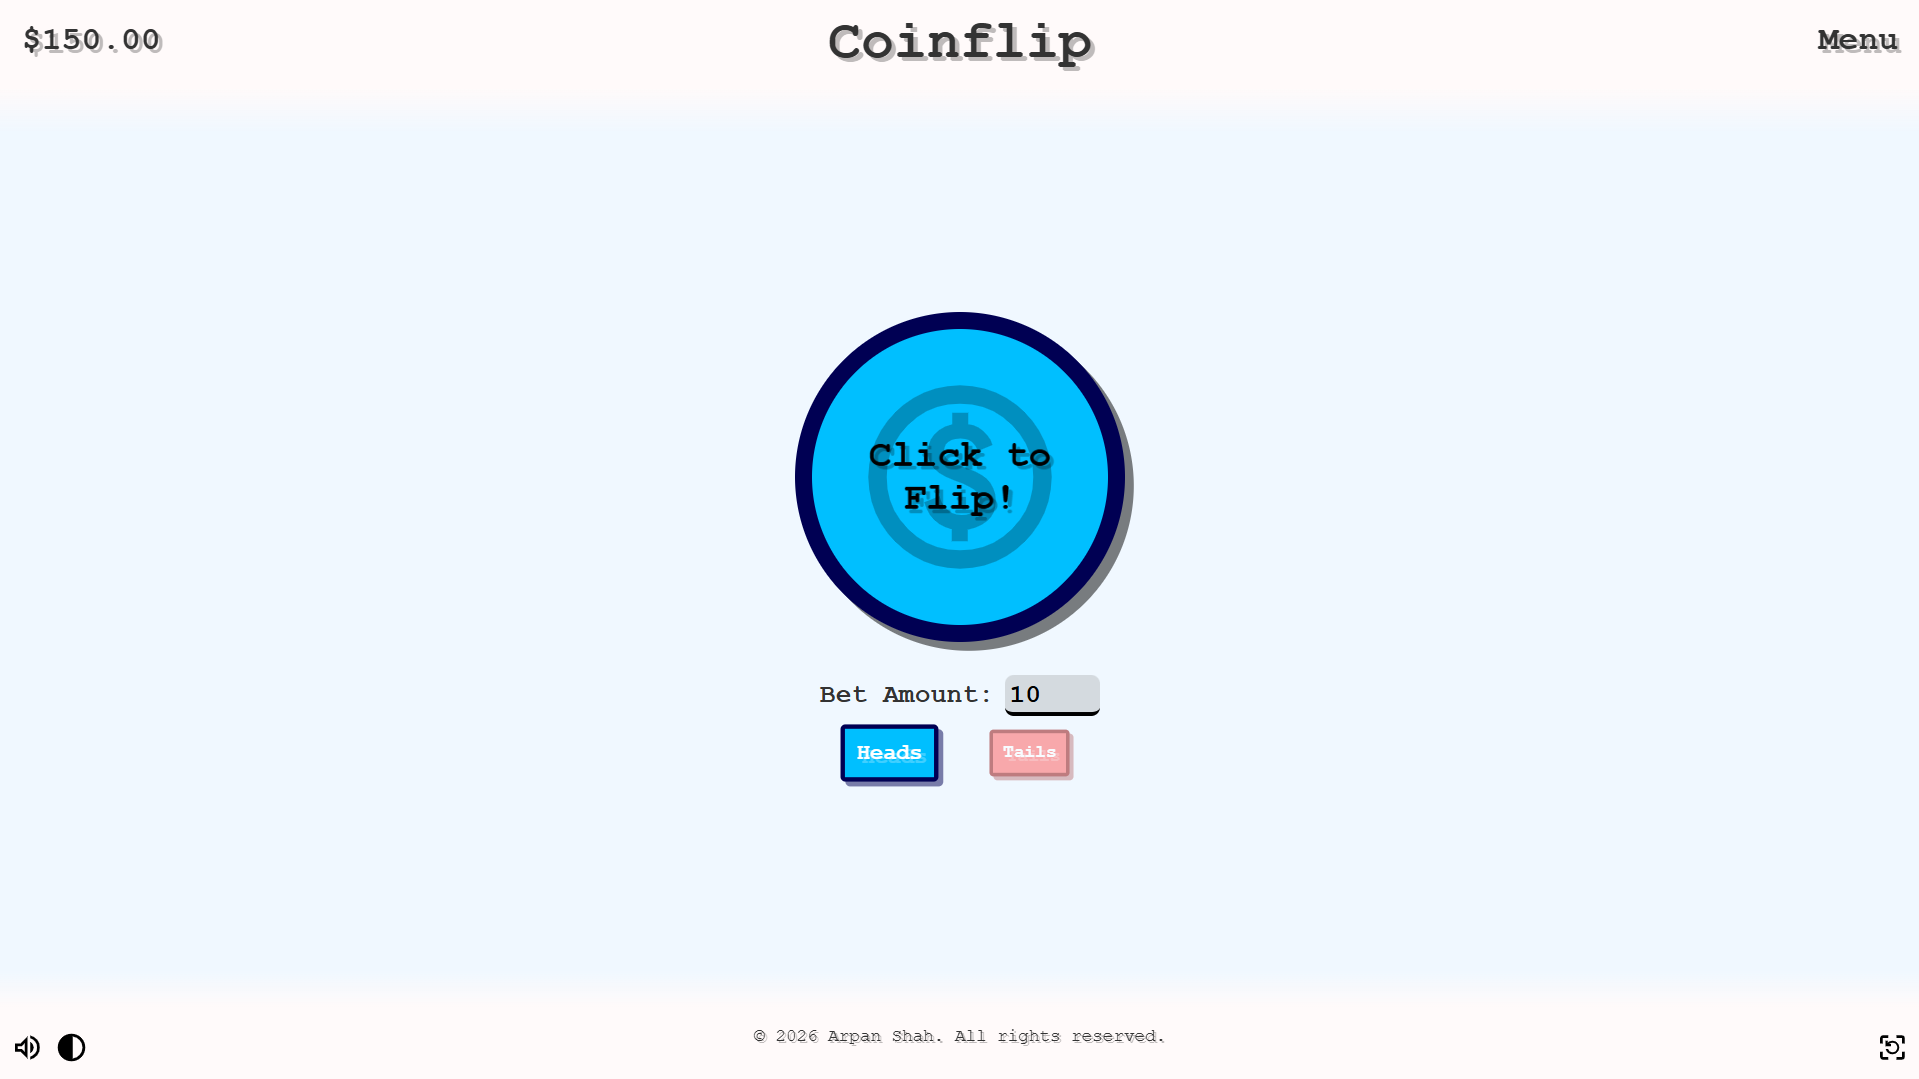
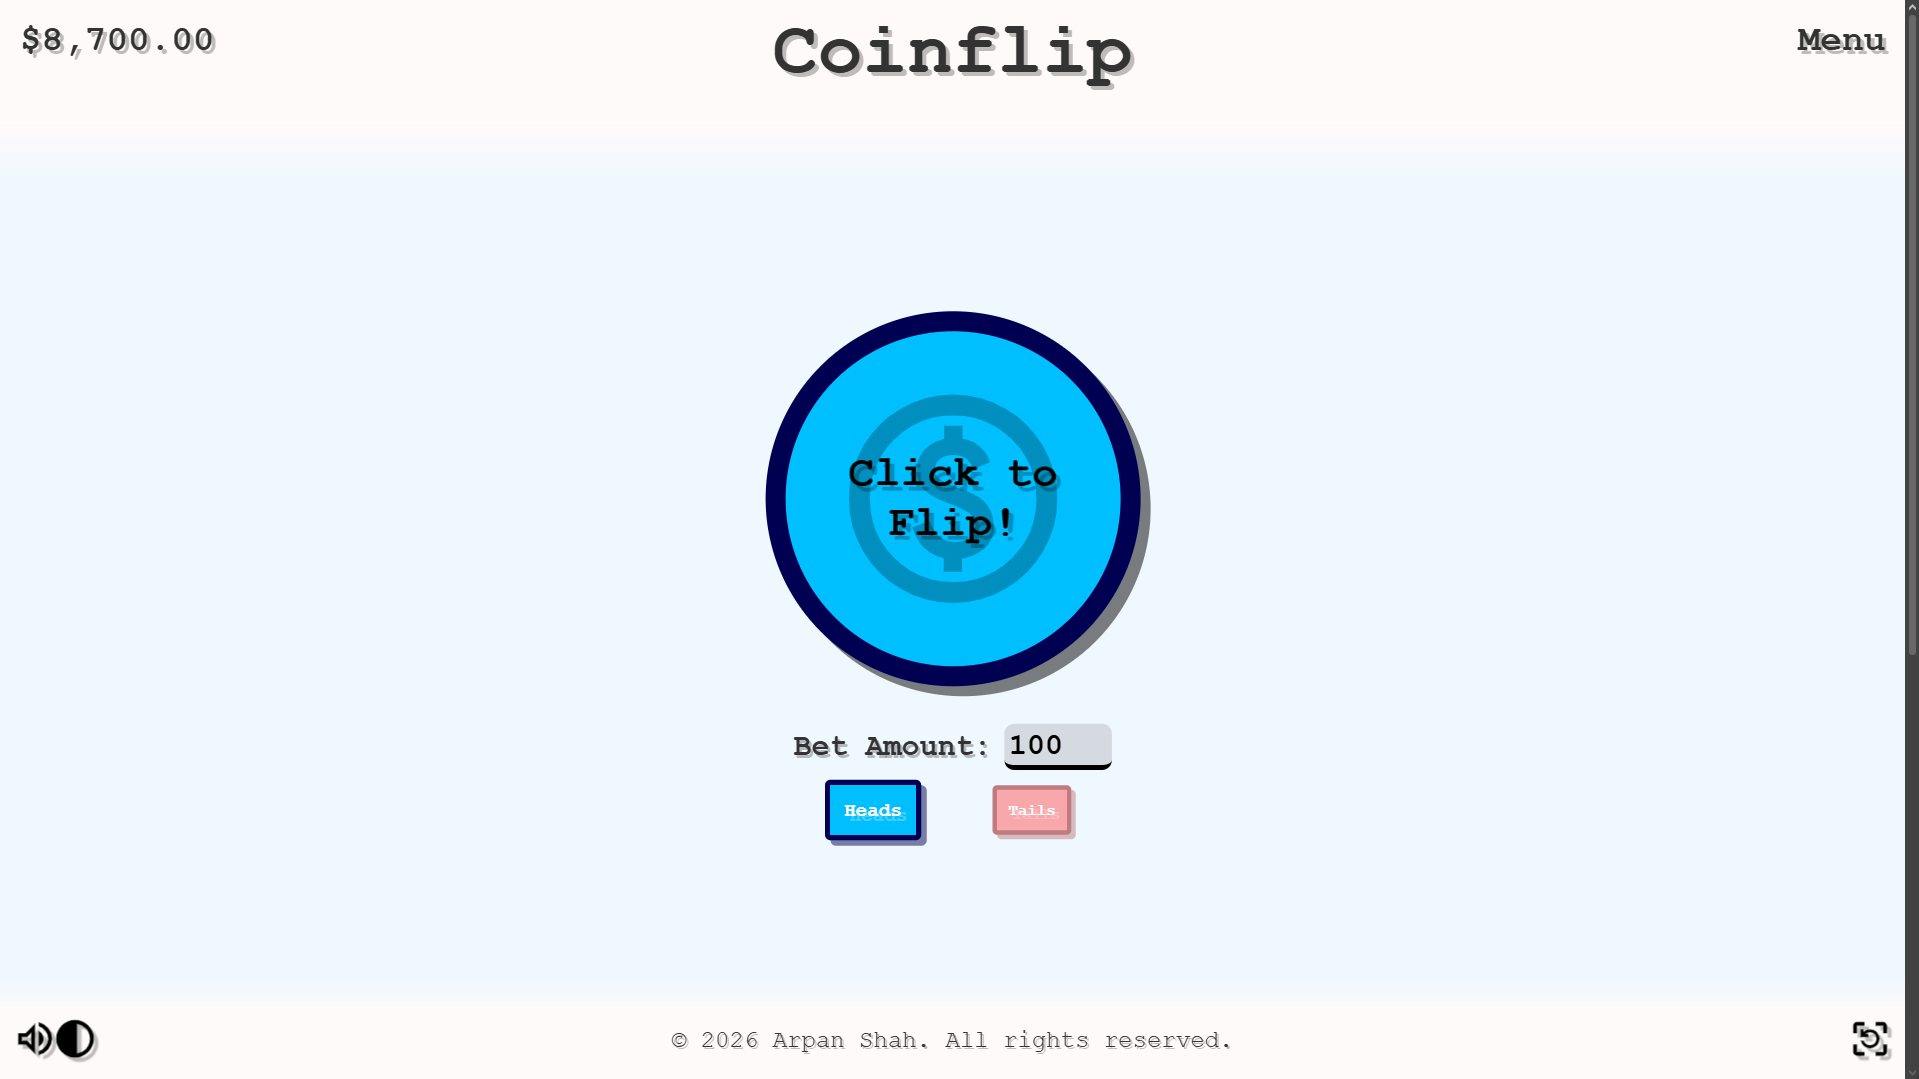
Update 3.0 Part 2
1. Fixed UI scaling bugs on games
2. Added UI scaling to betting
3. Added shadows to elements without shadows
4. Added new SFX to betting
5. Added special-guest all to invite all special guests (also added return varient)
6. Fixed footer unkown command bug
7. Fixed sg / lsp bug in footer
8. Bug Fixes

diff --git a/css/components.css b/css/components.css
@@ -161,7 +161,7 @@ footer {
         width: 30px;
         height: 30px;
         cursor: pointer;
-        filter: invert(20%) sepia(0%) saturate(0%) hue-rotate(0deg) brightness(0%) contrast(100%);
+        filter: drop-shadow(3px 3px 0px rgba(0, 0, 0, 0.25)) invert(20%) sepia(0%) saturate(0%) hue-rotate(0deg) brightness(0%) contrast(100%);
         transition: all 0.1s ease-in-out;
         
         &:hover {
@@ -420,7 +420,7 @@ button {
         }
     }
 }
-@media (min-width: 1520px) {
+@media (min-width: 1540px) {
     .game-section {
         height: calc(100vh - 280px);
         transform: scale(1.25);

diff --git a/css/style.css b/css/style.css
@@ -115,6 +115,7 @@ main {
         margin: 10px;
         font-size: 36px;
         user-select: none;
+        text-shadow: 2px 2px 0px rgba(0, 0, 0, 0.25);
     }
     & > .setting-option {
         display: flex;
@@ -174,7 +175,7 @@ main {
         }
     }
 }
-@media (min-width: 1520px) {
+@media (min-width: 1540px) {
     main {
         grid-template-columns: repeat(auto-fit, 400px);
         grid-template-rows: repeat(auto-fit, 220px);

diff --git a/README.md b/README.md
@@ -43,8 +43,18 @@ Gamblecore/
 
 ## Update Log
 
+### Update 3.0 - 3/23/2026
+1. Fixed UI scaling bugs on games
+2. Added UI scaling to betting
+3. Added shadows to elements without shadows
+4. Added new SFX to betting
+5. Added special-guest all to invite all special guests (also added return varient)
+6. Fixed footer unkown command bug
+7. Fixed sg / lsp bug in footer
+8. Bug Fixes
+
 ### Update 2.9 - 3/22/2026
-1. Finished basic betting gameplay
+1. Finished basic betting gameplay (Still no upgrades or UI scaling support)
 2. Added SBR reference
 3. Added secret footer commands to betting
 4. Fixed footer wrong command not clearing
